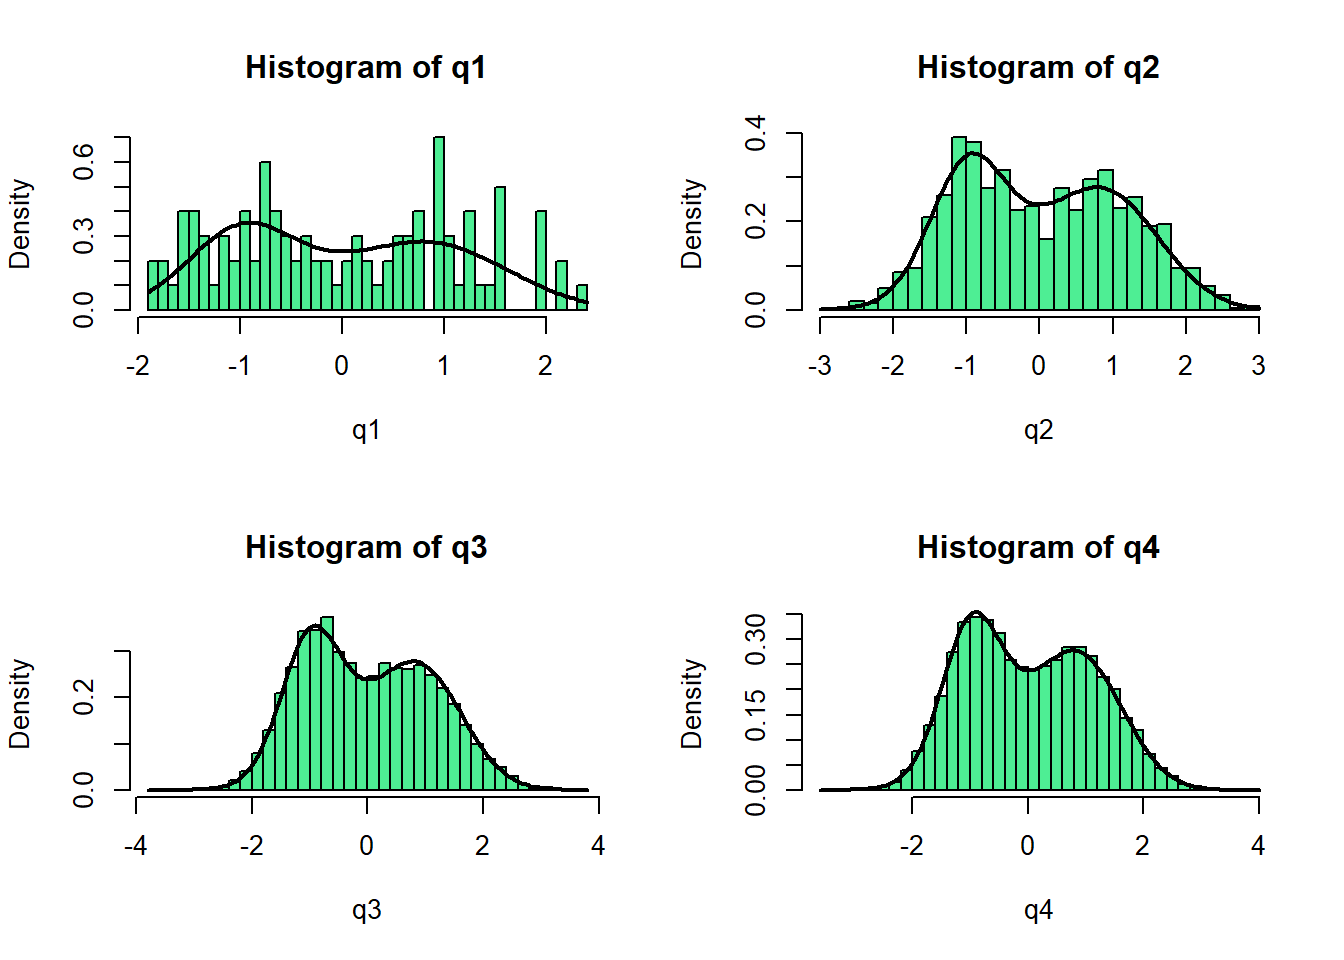
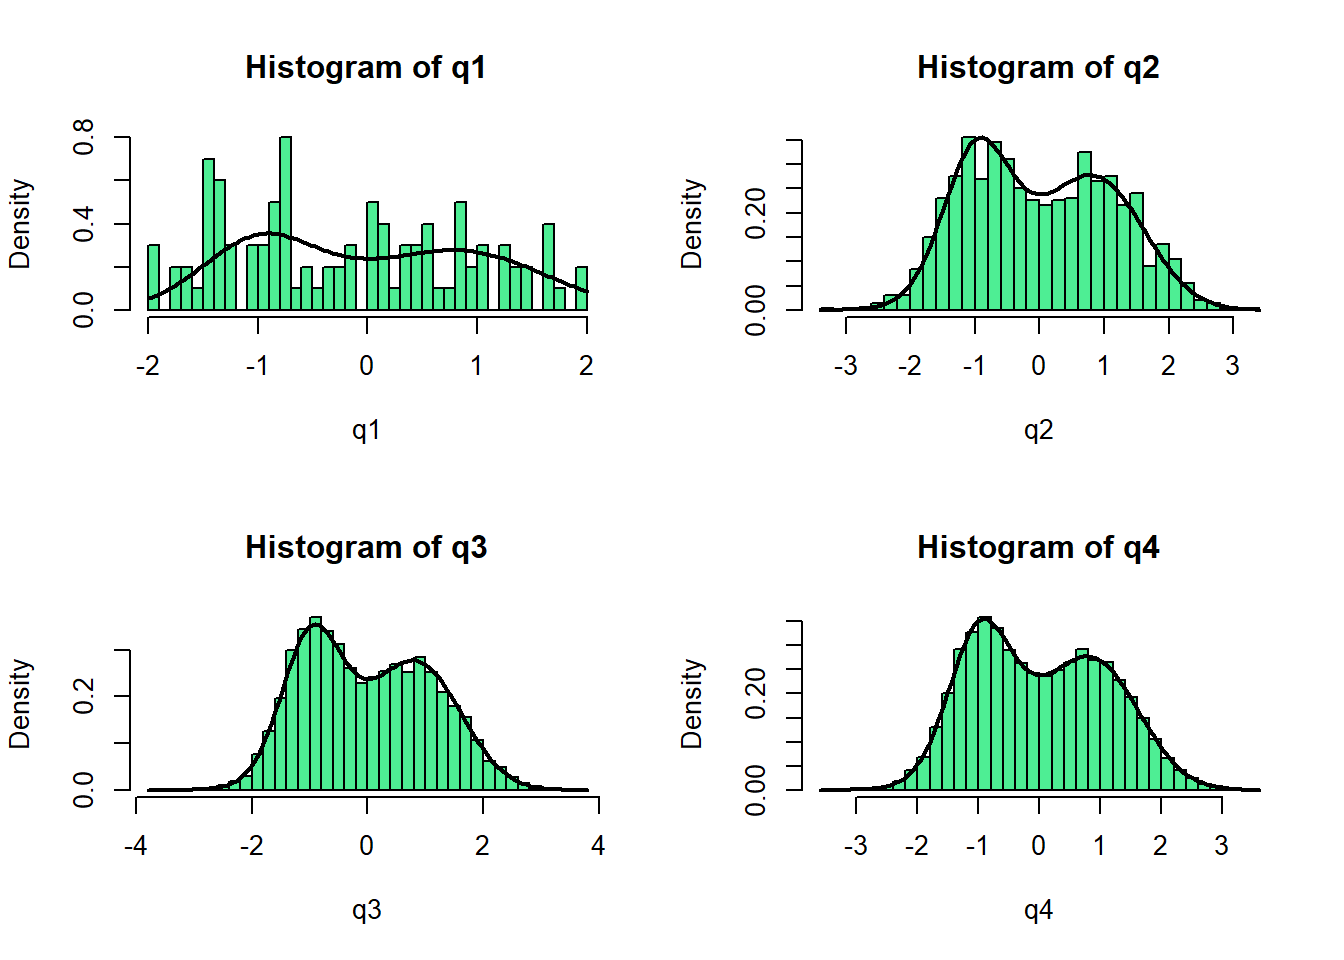
se corrige error de informe

diff --git a/informe-tarea2.html b/informe-tarea2.html
@@ -478,41 +478,46 @@ code span.wa { color: #60a0b0; font-weight: bold; font-style: italic; } /* Warni
 <span id="cb16-9"><a href="#cb16-9" aria-hidden="true" tabindex="-1"></a></span>
 <span id="cb16-10"><a href="#cb16-10" aria-hidden="true" tabindex="-1"></a><span class="fu">par</span>(<span class="at">mfrow=</span><span class="fu">c</span>(<span class="dv">1</span>,<span class="dv">3</span>))</span>
 <span id="cb16-11"><a href="#cb16-11" aria-hidden="true" tabindex="-1"></a></span>
-<span id="cb16-12"><a href="#cb16-12" aria-hidden="true" tabindex="-1"></a>c</span></code><button title="Copy to Clipboard" class="code-copy-button"><i class="bi"></i></button></pre></div>
-<div class="cell-output cell-output-stdout">
-<pre><code>[1] 2.529105</code></pre>
+<span id="cb16-12"><a href="#cb16-12" aria-hidden="true" tabindex="-1"></a><span class="fu">hist</span>(l1, <span class="at">probability =</span> T,<span class="at">ylim=</span><span class="fu">c</span>(<span class="dv">0</span>,<span class="fl">0.12</span>),<span class="at">breaks =</span> <span class="dv">40</span>, <span class="at">col =</span> <span class="st">"lightblue1"</span>)</span>
+<span id="cb16-13"><a href="#cb16-13" aria-hidden="true" tabindex="-1"></a><span class="fu">curve</span>(<span class="fu">f4</span>(x,<span class="dv">0</span>) ,<span class="at">add =</span> T, <span class="at">lwd=</span><span class="dv">2</span>)</span>
+<span id="cb16-14"><a href="#cb16-14" aria-hidden="true" tabindex="-1"></a><span class="fu">hist</span>(l2, <span class="at">probability =</span> T,<span class="at">ylim=</span><span class="fu">c</span>(<span class="dv">0</span>,<span class="fl">0.12</span>), <span class="at">breaks =</span> <span class="dv">50</span>, <span class="at">col =</span> <span class="st">"lightblue1"</span>)</span>
+<span id="cb16-15"><a href="#cb16-15" aria-hidden="true" tabindex="-1"></a><span class="fu">curve</span>(<span class="fu">f4</span>(x,<span class="fl">0.5</span>),<span class="at">add =</span> T, <span class="at">lwd=</span><span class="dv">2</span>)</span>
+<span id="cb16-16"><a href="#cb16-16" aria-hidden="true" tabindex="-1"></a><span class="fu">hist</span>(l3, <span class="at">probability =</span> T,<span class="at">ylim=</span><span class="fu">c</span>(<span class="dv">0</span>,<span class="fl">0.25</span>), <span class="at">breaks =</span> <span class="dv">40</span>, <span class="at">col =</span> <span class="st">"lightblue1"</span>)</span>
+<span id="cb16-17"><a href="#cb16-17" aria-hidden="true" tabindex="-1"></a><span class="fu">curve</span>(<span class="fu">f4</span>(x,<span class="dv">1</span>) ,<span class="at">add =</span> T, <span class="at">lwd=</span><span class="dv">2</span>)</span></code><button title="Copy to Clipboard" class="code-copy-button"><i class="bi"></i></button></pre></div>
+<div class="cell-output-display">
+<p><img src="informe-tarea2_files/figure-html/unnamed-chunk-13-1.png" class="img-fluid" width="672"></p>
 </div>
 </div>
 <p>d)</p>
 <div class="cell">
-<div class="sourceCode cell-code" id="cb18"><pre class="sourceCode r code-with-copy"><code class="sourceCode r"><span id="cb18-1"><a href="#cb18-1" aria-hidden="true" tabindex="-1"></a><span class="co">#esta funcion ocupa las funciones que estan incorporadas en R</span></span>
-<span id="cb18-2"><a href="#cb18-2" aria-hidden="true" tabindex="-1"></a>composicion2 <span class="ot">&lt;-</span> <span class="cf">function</span>(N,p1){</span>
-<span id="cb18-3"><a href="#cb18-3" aria-hidden="true" tabindex="-1"></a>  u <span class="ot">&lt;-</span> <span class="fu">runif</span>(N)</span>
-<span id="cb18-4"><a href="#cb18-4" aria-hidden="true" tabindex="-1"></a>  u1 <span class="ot">&lt;-</span> <span class="fu">runif</span>(N)</span>
-<span id="cb18-5"><a href="#cb18-5" aria-hidden="true" tabindex="-1"></a>  muestra <span class="ot">&lt;-</span> <span class="cn">NULL</span></span>
-<span id="cb18-6"><a href="#cb18-6" aria-hidden="true" tabindex="-1"></a>  <span class="cf">for</span> (i <span class="cf">in</span> <span class="dv">1</span><span class="sc">:</span>N) {</span>
-<span id="cb18-7"><a href="#cb18-7" aria-hidden="true" tabindex="-1"></a>    </span>
-<span id="cb18-8"><a href="#cb18-8" aria-hidden="true" tabindex="-1"></a>    </span>
-<span id="cb18-9"><a href="#cb18-9" aria-hidden="true" tabindex="-1"></a>    <span class="cf">if</span>(u[i] <span class="sc">&lt;</span> p1){</span>
-<span id="cb18-10"><a href="#cb18-10" aria-hidden="true" tabindex="-1"></a>      muestra[i] <span class="ot">&lt;-</span> <span class="fu">rnorm</span>(<span class="dv">1</span>,<span class="dv">4</span>,<span class="fu">sqrt</span>(<span class="dv">3</span>))</span>
-<span id="cb18-11"><a href="#cb18-11" aria-hidden="true" tabindex="-1"></a>    }</span>
-<span id="cb18-12"><a href="#cb18-12" aria-hidden="true" tabindex="-1"></a>    <span class="cf">else</span>{</span>
-<span id="cb18-13"><a href="#cb18-13" aria-hidden="true" tabindex="-1"></a>      muestra[i] <span class="ot">&lt;-</span> <span class="fu">rgamma</span>(<span class="dv">1</span>,<span class="dv">10</span>,<span class="fl">0.7</span>)</span>
-<span id="cb18-14"><a href="#cb18-14" aria-hidden="true" tabindex="-1"></a>    }</span>
-<span id="cb18-15"><a href="#cb18-15" aria-hidden="true" tabindex="-1"></a>  }</span>
-<span id="cb18-16"><a href="#cb18-16" aria-hidden="true" tabindex="-1"></a>  <span class="fu">return</span>(muestra)</span>
-<span id="cb18-17"><a href="#cb18-17" aria-hidden="true" tabindex="-1"></a>}</span>
-<span id="cb18-18"><a href="#cb18-18" aria-hidden="true" tabindex="-1"></a></span>
-<span id="cb18-19"><a href="#cb18-19" aria-hidden="true" tabindex="-1"></a><span class="fu">par</span>(<span class="at">mfrow=</span><span class="fu">c</span>(<span class="dv">1</span>,<span class="dv">3</span>))</span>
-<span id="cb18-20"><a href="#cb18-20" aria-hidden="true" tabindex="-1"></a></span>
-<span id="cb18-21"><a href="#cb18-21" aria-hidden="true" tabindex="-1"></a><span class="fu">hist</span>(<span class="fu">composicion2</span>(<span class="dv">100000</span>,<span class="dv">0</span>), <span class="at">probability=</span>T, <span class="at">breaks=</span><span class="dv">40</span>, <span class="at">col=</span><span class="st">"#00FFFF"</span>)</span>
-<span id="cb18-22"><a href="#cb18-22" aria-hidden="true" tabindex="-1"></a><span class="fu">curve</span>(<span class="fu">f4</span>(x,<span class="dv">0</span>) ,<span class="at">add =</span> T, <span class="at">lwd=</span><span class="dv">2</span>)</span>
-<span id="cb18-23"><a href="#cb18-23" aria-hidden="true" tabindex="-1"></a></span>
-<span id="cb18-24"><a href="#cb18-24" aria-hidden="true" tabindex="-1"></a><span class="fu">hist</span>(<span class="fu">composicion2</span>(<span class="dv">100000</span>,<span class="fl">0.5</span>), <span class="at">probability=</span>T, <span class="at">breaks=</span><span class="dv">50</span>, <span class="at">col=</span><span class="st">"#00FFFF"</span>)</span>
-<span id="cb18-25"><a href="#cb18-25" aria-hidden="true" tabindex="-1"></a><span class="fu">curve</span>(<span class="fu">f4</span>(x,<span class="fl">0.5</span>) ,<span class="at">add =</span> T, <span class="at">lwd=</span><span class="dv">2</span>)</span>
-<span id="cb18-26"><a href="#cb18-26" aria-hidden="true" tabindex="-1"></a></span>
-<span id="cb18-27"><a href="#cb18-27" aria-hidden="true" tabindex="-1"></a><span class="fu">hist</span>(<span class="fu">composicion2</span>(<span class="dv">100000</span>,<span class="dv">1</span>), <span class="at">probability=</span>T, <span class="at">breaks =</span> <span class="dv">40</span>, <span class="at">col=</span><span class="st">"#00FFFF"</span>)</span>
-<span id="cb18-28"><a href="#cb18-28" aria-hidden="true" tabindex="-1"></a><span class="fu">curve</span>(<span class="fu">f4</span>(x,<span class="dv">1</span>) ,<span class="at">add =</span> T, <span class="at">lwd=</span><span class="dv">2</span>)</span></code><button title="Copy to Clipboard" class="code-copy-button"><i class="bi"></i></button></pre></div>
+<div class="sourceCode cell-code" id="cb17"><pre class="sourceCode r code-with-copy"><code class="sourceCode r"><span id="cb17-1"><a href="#cb17-1" aria-hidden="true" tabindex="-1"></a><span class="co">#esta funcion ocupa las funciones que estan incorporadas en R</span></span>
+<span id="cb17-2"><a href="#cb17-2" aria-hidden="true" tabindex="-1"></a>composicion2 <span class="ot">&lt;-</span> <span class="cf">function</span>(N,p1){</span>
+<span id="cb17-3"><a href="#cb17-3" aria-hidden="true" tabindex="-1"></a>  u <span class="ot">&lt;-</span> <span class="fu">runif</span>(N)</span>
+<span id="cb17-4"><a href="#cb17-4" aria-hidden="true" tabindex="-1"></a>  u1 <span class="ot">&lt;-</span> <span class="fu">runif</span>(N)</span>
+<span id="cb17-5"><a href="#cb17-5" aria-hidden="true" tabindex="-1"></a>  muestra <span class="ot">&lt;-</span> <span class="cn">NULL</span></span>
+<span id="cb17-6"><a href="#cb17-6" aria-hidden="true" tabindex="-1"></a>  <span class="cf">for</span> (i <span class="cf">in</span> <span class="dv">1</span><span class="sc">:</span>N) {</span>
+<span id="cb17-7"><a href="#cb17-7" aria-hidden="true" tabindex="-1"></a>    </span>
+<span id="cb17-8"><a href="#cb17-8" aria-hidden="true" tabindex="-1"></a>    </span>
+<span id="cb17-9"><a href="#cb17-9" aria-hidden="true" tabindex="-1"></a>    <span class="cf">if</span>(u[i] <span class="sc">&lt;</span> p1){</span>
+<span id="cb17-10"><a href="#cb17-10" aria-hidden="true" tabindex="-1"></a>      muestra[i] <span class="ot">&lt;-</span> <span class="fu">rnorm</span>(<span class="dv">1</span>,<span class="dv">4</span>,<span class="fu">sqrt</span>(<span class="dv">3</span>))</span>
+<span id="cb17-11"><a href="#cb17-11" aria-hidden="true" tabindex="-1"></a>    }</span>
+<span id="cb17-12"><a href="#cb17-12" aria-hidden="true" tabindex="-1"></a>    <span class="cf">else</span>{</span>
+<span id="cb17-13"><a href="#cb17-13" aria-hidden="true" tabindex="-1"></a>      muestra[i] <span class="ot">&lt;-</span> <span class="fu">rgamma</span>(<span class="dv">1</span>,<span class="dv">10</span>,<span class="fl">0.7</span>)</span>
+<span id="cb17-14"><a href="#cb17-14" aria-hidden="true" tabindex="-1"></a>    }</span>
+<span id="cb17-15"><a href="#cb17-15" aria-hidden="true" tabindex="-1"></a>  }</span>
+<span id="cb17-16"><a href="#cb17-16" aria-hidden="true" tabindex="-1"></a>  <span class="fu">return</span>(muestra)</span>
+<span id="cb17-17"><a href="#cb17-17" aria-hidden="true" tabindex="-1"></a>}</span>
+<span id="cb17-18"><a href="#cb17-18" aria-hidden="true" tabindex="-1"></a></span>
+<span id="cb17-19"><a href="#cb17-19" aria-hidden="true" tabindex="-1"></a><span class="fu">par</span>(<span class="at">mfrow=</span><span class="fu">c</span>(<span class="dv">1</span>,<span class="dv">3</span>))</span>
+<span id="cb17-20"><a href="#cb17-20" aria-hidden="true" tabindex="-1"></a></span>
+<span id="cb17-21"><a href="#cb17-21" aria-hidden="true" tabindex="-1"></a><span class="fu">hist</span>(<span class="fu">composicion2</span>(<span class="dv">100000</span>,<span class="dv">0</span>), <span class="at">probability=</span>T, <span class="at">breaks=</span><span class="dv">40</span>, <span class="at">col=</span><span class="st">"#00FFFF"</span>)</span>
+<span id="cb17-22"><a href="#cb17-22" aria-hidden="true" tabindex="-1"></a><span class="fu">curve</span>(<span class="fu">f4</span>(x,<span class="dv">0</span>) ,<span class="at">add =</span> T, <span class="at">lwd=</span><span class="dv">2</span>)</span>
+<span id="cb17-23"><a href="#cb17-23" aria-hidden="true" tabindex="-1"></a></span>
+<span id="cb17-24"><a href="#cb17-24" aria-hidden="true" tabindex="-1"></a><span class="fu">hist</span>(<span class="fu">composicion2</span>(<span class="dv">100000</span>,<span class="fl">0.5</span>), <span class="at">probability=</span>T, <span class="at">breaks=</span><span class="dv">50</span>, <span class="at">col=</span><span class="st">"#00FFFF"</span>)</span>
+<span id="cb17-25"><a href="#cb17-25" aria-hidden="true" tabindex="-1"></a><span class="fu">curve</span>(<span class="fu">f4</span>(x,<span class="fl">0.5</span>) ,<span class="at">add =</span> T, <span class="at">lwd=</span><span class="dv">2</span>)</span>
+<span id="cb17-26"><a href="#cb17-26" aria-hidden="true" tabindex="-1"></a></span>
+<span id="cb17-27"><a href="#cb17-27" aria-hidden="true" tabindex="-1"></a><span class="fu">hist</span>(<span class="fu">composicion2</span>(<span class="dv">100000</span>,<span class="dv">1</span>), <span class="at">probability=</span>T, <span class="at">breaks =</span> <span class="dv">40</span>, <span class="at">col=</span><span class="st">"#00FFFF"</span>)</span>
+<span id="cb17-28"><a href="#cb17-28" aria-hidden="true" tabindex="-1"></a><span class="fu">curve</span>(<span class="fu">f4</span>(x,<span class="dv">1</span>) ,<span class="at">add =</span> T, <span class="at">lwd=</span><span class="dv">2</span>)</span></code><button title="Copy to Clipboard" class="code-copy-button"><i class="bi"></i></button></pre></div>
 <div class="cell-output-display">
 <p><img src="informe-tarea2_files/figure-html/unnamed-chunk-14-1.png" class="img-fluid" width="672"></p>
 </div>
